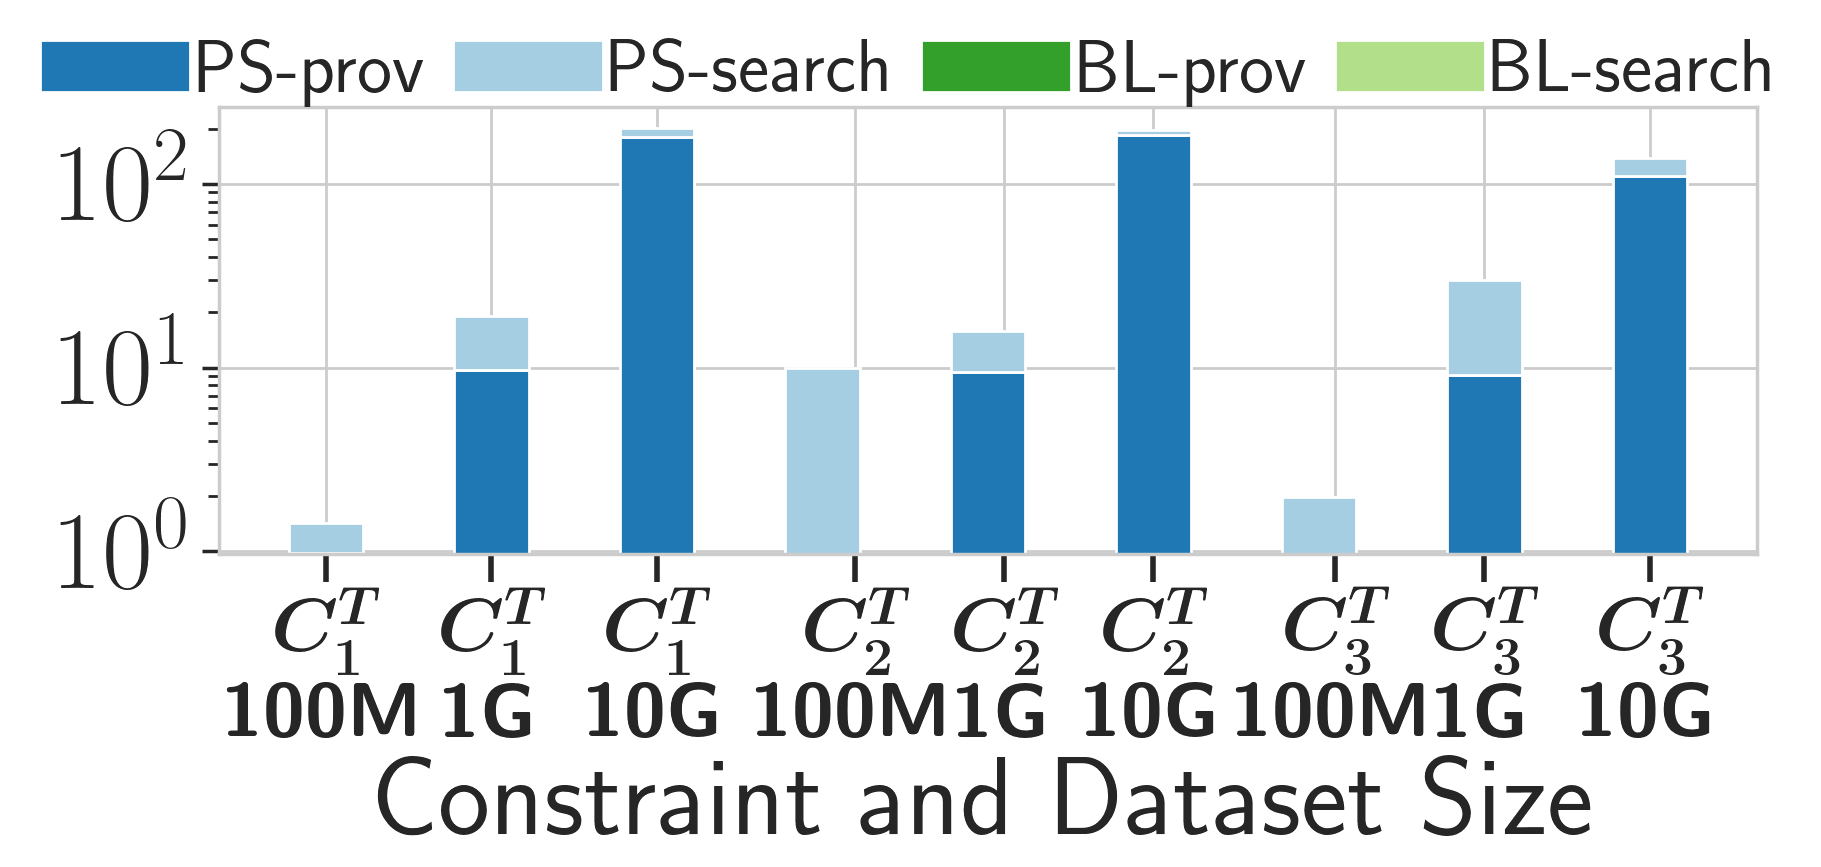
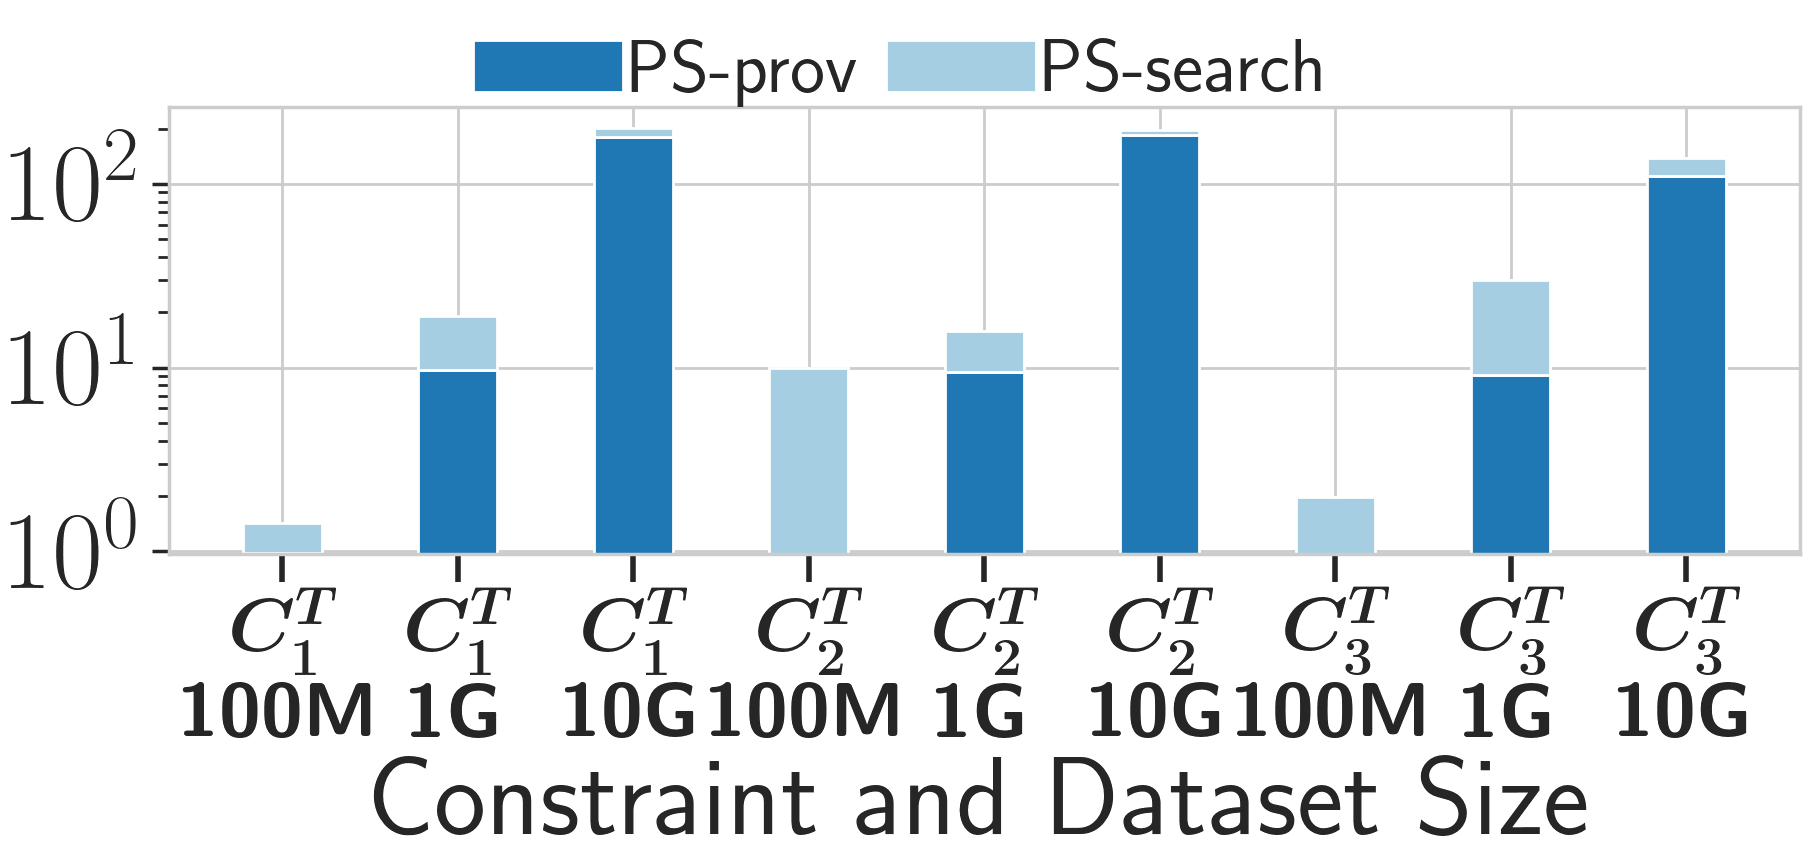
TPCH

diff --git a/Experiment/TPCH/running_time/fig.py b/Experiment/TPCH/running_time/fig.py
@@ -65,9 +65,9 @@ def run(q):
     plt.bar(index, execution_timeps1, bar_width, color=color[0], label=label[0])
     plt.bar(index, execution_timeps2, bar_width, bottom=execution_timeps1,
             color=color[1], label=label[1])
-    plt.bar(index + bar_width, execution_timebl1, bar_width, color=color[2], label=label[2])
-    plt.bar(index + bar_width, execution_timebl2, bar_width, bottom=execution_timebl1,
-            color=color[3], label=label[3])
+    # plt.bar(index + bar_width, execution_timebl1, bar_width, color=color[2], label=label[2])
+    # plt.bar(index + bar_width, execution_timebl2, bar_width, bottom=execution_timebl1,
+    #         color=color[3], label=label[3])
 
     # x_list = [r"\boldmath$C^T_1$\n\textbf{100M}",
     #           '$C^T_1$\n1G', '$C^T_1$\n10G', '$C^T_2$\n100M', '$C^T_2$\n1G', '$C^T_2$\n10G',
@@ -76,7 +76,7 @@ def run(q):
               '\\boldmath$C^T_2$\n\\textbf{100M}', '\\boldmath$C^T_2$\n\\textbf{1G}', '\\boldmath$C^T_2$\n\\textbf{10G}',
                 '\\boldmath$C^T_3$\n\\textbf{100M}', '\\boldmath$C^T_3$\n\\textbf{1G}', '\\boldmath$C^T_3$\n\\textbf{10G}']
 
-    plt.xticks([0, 1, 2, 3.2, 4.1, 5, 6.1, 7, 8], x_list, fontsize=55, weight='bold')
+    plt.xticks([0, 1, 2, 3, 4, 5, 6, 7, 8], x_list, fontsize=55, weight='bold')
     plt.yticks(fontsize=80, weight='bold')
     plt.yscale('log')
     plt.xlabel(r'Constraint and Dataset Size', fontsize=80, weight='bold')
@@ -93,4 +93,4 @@ def run(q):
     plt.show()
 
 
-run(3)
+run(12)
